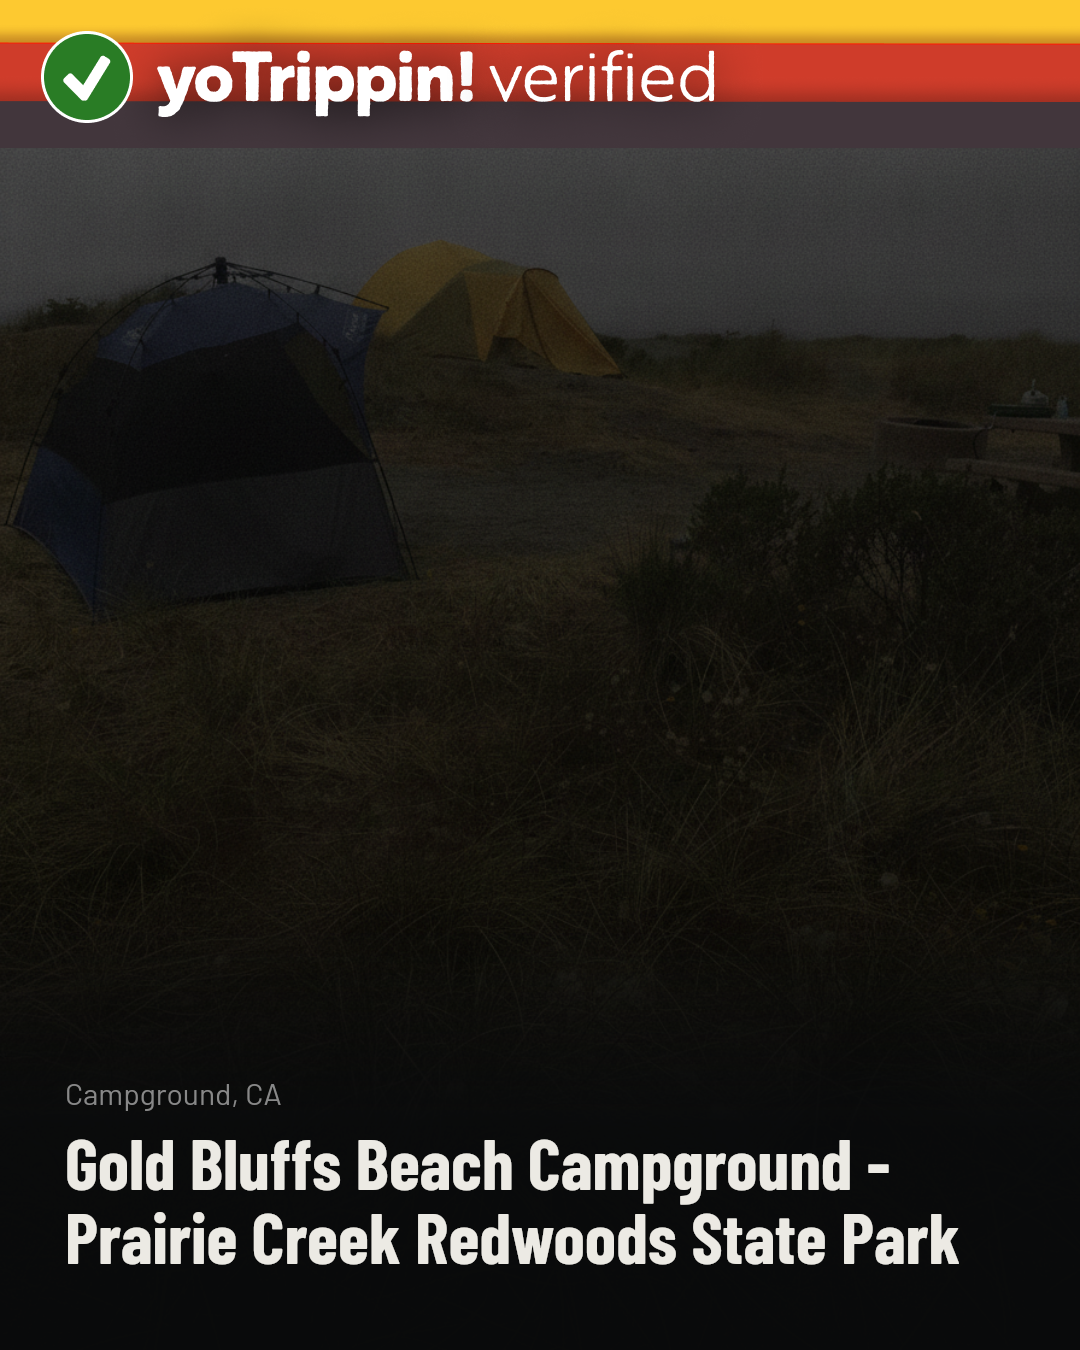
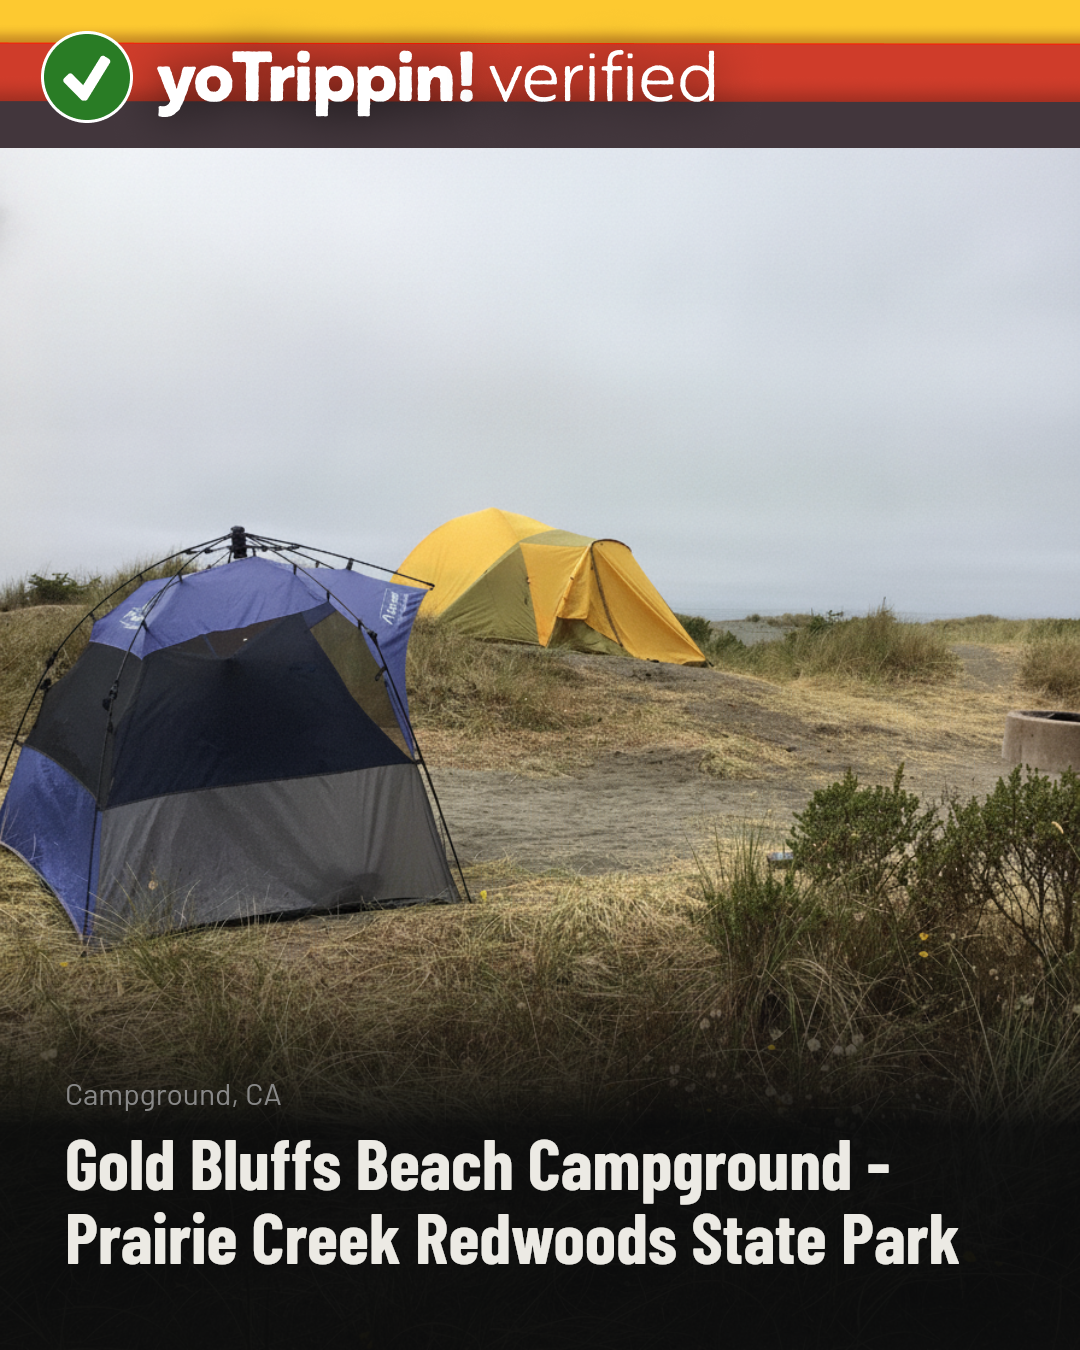
feat(data): Pin of the Week — bright/natural photo treatment (fix underexposure)
The top of the image was dark because PHOTO_TREATMENT_BRIEF asked Nano Banana
for a "dark, cinematic, moody" grade (the darkness was the base output, not the
scrim — the scrim only touches the bottom third). Rewrote the brief to bright/
natural with no darkening, so the full frame (especially the top half) reads at
full brightness.

Measured base.png before → after: upper sky 57 → 226/255, mid 20 → 196,
foreground 13 → 96. Re-rendered end-to-end (billed key, TEST) and visually
inspected: photo is bright/natural, top half at full brightness, header +
caption bar intact, scrim still darkens only the caption area.

Supersedes #415. TEST-only, no PROD writes.

diff --git a/data/pin-of-the-week/style-guide.ts b/data/pin-of-the-week/style-guide.ts
@@ -48,10 +48,13 @@ export const BRAND = {
  * which is why text is deliberately kept OUT of the prompt.
  */
 export const PHOTO_TREATMENT_BRIEF = [
-  `Color-grade and lightly retouch the provided reference photo of a real place.`,
+  `Lightly enhance the provided reference photo of a real place for a social post.`,
   `Portrait ${BRAND.aspectRatio} (${BRAND.dimensions.width}x${BRAND.dimensions.height}).`,
-  `Dark, cinematic, moody outdoor aesthetic with warm shadows on a near-black base`,
-  `(${BRAND.colors.baseBackground}); gently darken the lower third so an overlay reads cleanly.`,
+  `Keep it BRIGHT and NATURAL: preserve the true daylight exposure and real colors,`,
+  `with clean contrast and a crisp, vibrant look. Do NOT darken, dim, add vignettes,`,
+  `or apply a moody/cinematic grade — the whole frame, and especially the top half,`,
+  `must read at full, natural brightness. (Legibility of the bottom caption is`,
+  `handled separately by an overlay, so do not darken the photo for it.)`,
   `Keep the real place clearly recognizable — do not change its content or geography.`,
   `ABSOLUTELY NO text, letters, words, numbers, logos, watermarks, badges, captions,`,
   `frames, or graphic overlays of any kind. No people added. No lens flare, no stock-photo look.`,

diff --git a/docs/content/pin-of-the-week.md b/docs/content/pin-of-the-week.md
@@ -136,7 +136,9 @@ not reliably render exact long text or hit specific fonts.
 
 1. **Nano Banana photo treatment (`nano-banana.ts`)** — "Nano Banana" is Google's
    Gemini image model (`gemini-2.5-flash-image`). It performs an **image-to-image**
-   grade of the place's real `photo_url` into the dark, warm-shadowed brand look.
+   enhancement of the place's real `photo_url` into a **bright, natural** look
+   (preserving true daylight exposure — no darkening; the earlier dark/moody grade
+   was dropped so the top of the frame reads at full brightness).
    The prompt (`PHOTO_TREATMENT_BRIEF`) contains **NO text instructions** — it
    explicitly forbids any letters/logos/overlays, so the model only produces the
    graded photo (`base.png`). `generationConfig.imageConfig.aspectRatio` forces
@@ -204,17 +206,16 @@ stand-in rounded font (Baloo 2); that has been **removed entirely**.
   now lives only in the header; the reference omits it). *Flagged deviation from
   a literal "bottom stays as-is".*
 
-#### ⚠ Known issue — the photo treatment is underexposed (flagged, not fixed)
+#### Exposure — fixed (2026-09-10)
 
-The Nano Banana base treatment renders **too dark**. Attributed by pixel
-measurement (2026-09-10): the darkness is the **base output, not the composite
-scrim** — mean luminance of `base.png` (before any scrim) is **57/255** in the
-upper sky, **20/255** mid-photo, **13/255** foreground; the composite's bottom
-scrim removes only ~1–4 further points. Root cause: `PHOTO_TREATMENT_BRIEF` asks
-for a "dark, cinematic, moody" grade and to "darken the lower third," and the
-model obeys. *Confidence: literal / directly verified (pixel-measured).* **Fix
-deferred to a separate pass** — it needs prompt softening + iterative re-rendering
-to tune exposure, which is not a trivial one-line change.
+Earlier renders were underexposed because `PHOTO_TREATMENT_BRIEF` asked for a
+"dark, cinematic, moody" grade (measured: `base.png` upper sky **57/255**, mid
+**20/255**, foreground **13/255** — the darkness was the base output, not the
+scrim). The brief was rewritten to **bright/natural, no darkening**. Re-measured
+after the change: `base.png` upper sky **226/255**, mid **196/255**, foreground
+**96/255** — the top of the frame now reads at full brightness, matching the
+reference. *Confidence: literal / directly verified (pixel-measured before &
+after).* The bottom scrim still darkens only the caption area (bottom third).
 
 ---
 
@@ -238,8 +239,9 @@ to tune exposure, which is not a trivial one-line change.
   Banana adapter exists): **strong inference** — comprehensive negative grep
   across the repo (only Mapbox map-pin icon helpers matched).
 - The header is the **real brand asset** (`brand/header.png`, from the operator's
-  1080×138 `branding.png`) composited full-width — colors and wordmark are exact,
-  not approximated: **literal / visually verified + pixel-sampled** (2026-09-10).
-- The photo treatment is underexposed and the cause is the Nano Banana base (not
-  the scrim): **literal / directly verified** (base upper-sky 57/255; scrim adds
-  ≤4). Deferred to a separate pass.
+  `branding.png`, now 1080×148 with the verified badge) composited full-width —
+  colors, wordmark, and badge are exact, not approximated: **literal / visually
+  verified + pixel-sampled** (2026-09-10).
+- The photo exposure was fixed by rewriting `PHOTO_TREATMENT_BRIEF` to bright/
+  natural: **literal / directly verified** — `base.png` upper-sky 57→**226**/255
+  after the change; the scrim still darkens only the bottom third.

diff --git a/data/pin-of-the-week/README.md b/data/pin-of-the-week/README.md
@@ -41,8 +41,8 @@ SELECT — so the name is spelled exactly, the header colors/wordmark are the tr
 brand asset (not approximated), and the caption typography is the real brand
 fonts. See `docs/content/pin-of-the-week.md`.
 
-⚠ Known issue: the Nano Banana photo treatment is underexposed (base output, not
-the scrim) — flagged for a separate pass.
+Exposure: `PHOTO_TREATMENT_BRIEF` renders the photo **bright/natural** (the earlier
+dark grade was dropped); the bottom scrim darkens only the caption area.
 
 Requires the `featured_at` column:
 `supabase/migrations/20260910140000_master_place_featured_at.sql`
